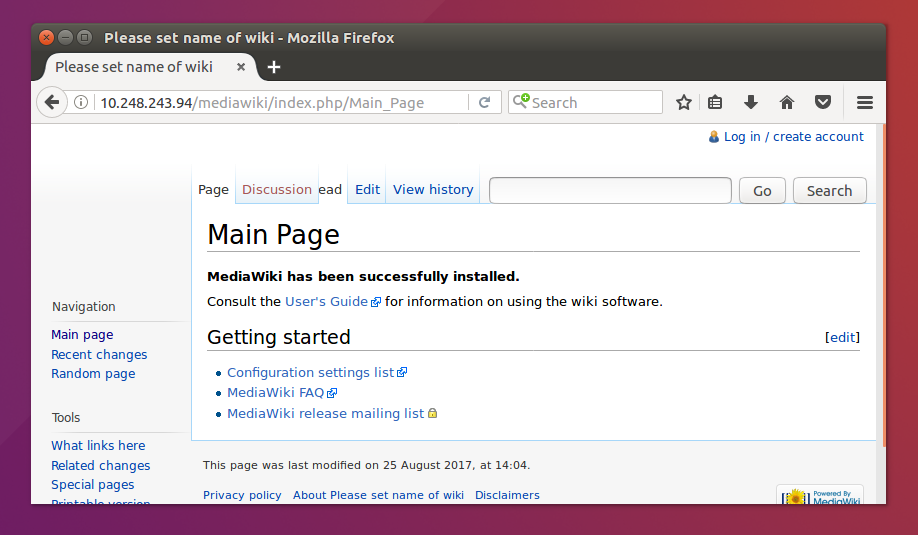
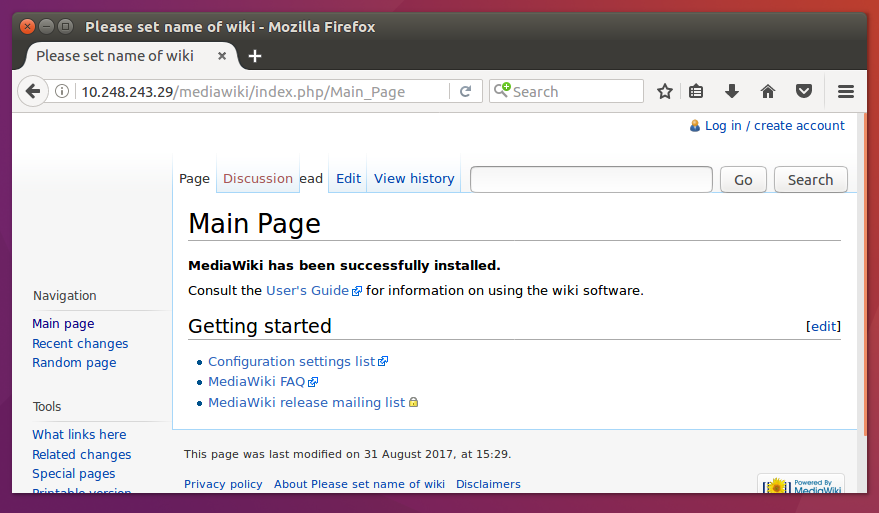
redid images to reflect 'lxd-test' controller name

Changed region(s): [[0.0, 0.0, 1.0, 0.9669]]

diff --git a/src/en/tut-lxd.md b/src/en/tut-lxd.md
@@ -224,7 +224,7 @@ the 'App' section, which shows that MediaWiki and MySQL are installed, and the
 correspond to the subnet we created for LXD earlier on.
 
 From the status output, we can see that the IP address for the MediaWiki
-site we have created is 10.248.243.94. Point your browser to that address
+site we have created is 10.248.243.29. Point your browser to that address
 to see the site.
 
 ![juju status](./media/tut-lxd-wiki-simple-browser.png)
